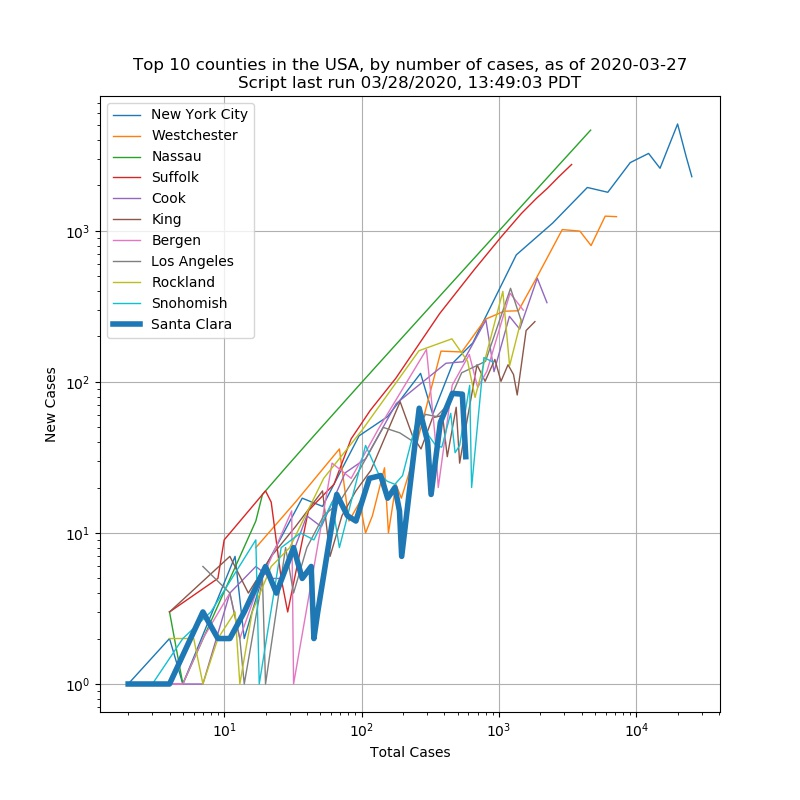
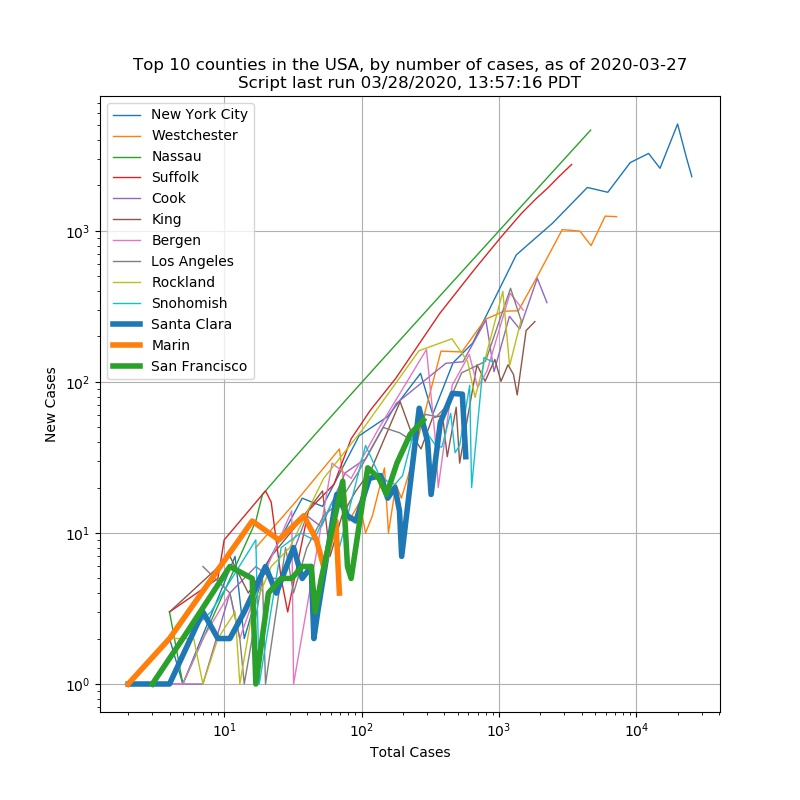
Added SF and Marin Counties to plot

diff --git a/covid_19.py b/covid_19.py
@@ -59,7 +59,9 @@ fig, ax0 = plt.subplots(nrows=1, ncols=1,figsize=[8, 8])
 counties = counties_by_num_cases(df)
 for county in counties[:num_counties_to_plot]:
   plot_county(county, min_cases=300, axis=ax0)
-plot_county("Santa Clara", axis=ax0, lineweight=4)
+my_counties = ["Santa Clara", "Marin", "San Francisco"]
+for county in my_counties:
+    plot_county(county, axis=ax0, lineweight=4)
 ax0.set_xlabel("Total Cases")
 ax0.set_ylabel("New Cases")
 ax0.set_title(f"Top {num_counties_to_plot} counties in the USA, by number of cases, as of {latest_date(df)}\nScript last run {get_time()}")
